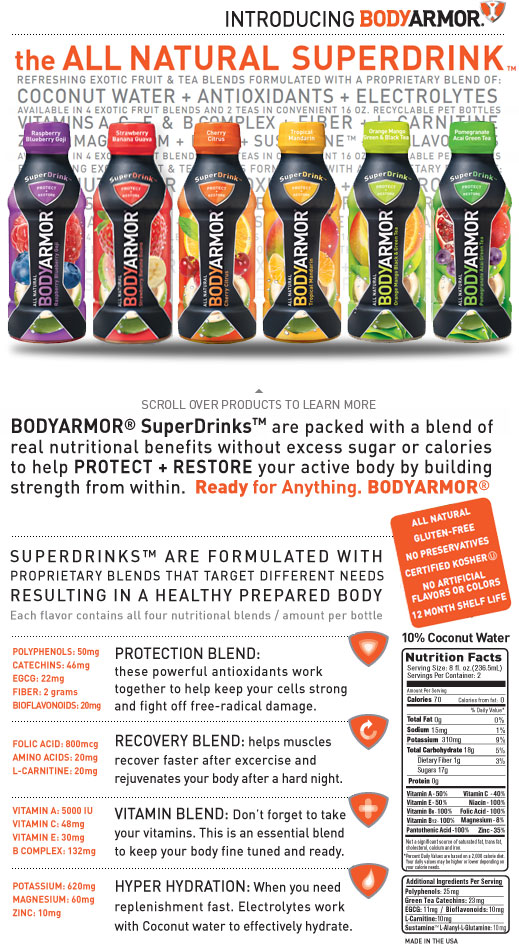
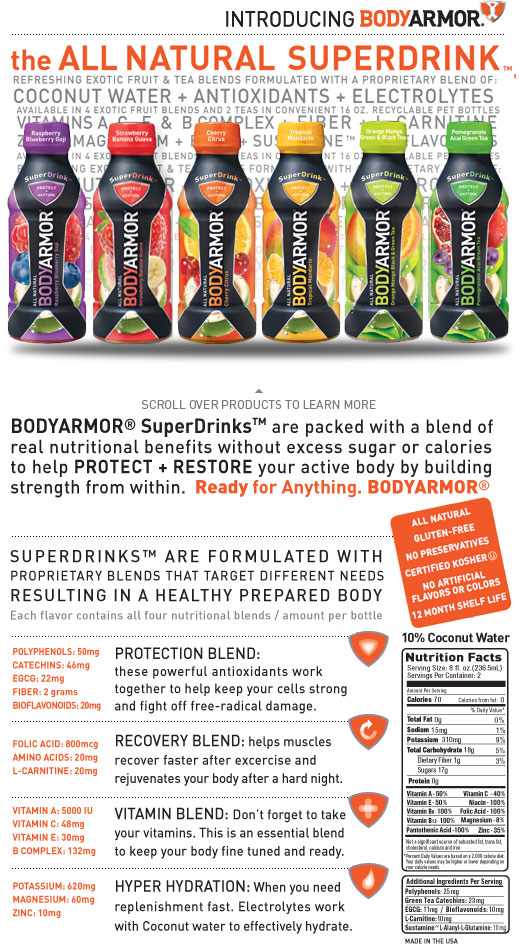
Minor changes to make it look better as a facebook page

Changed region(s): [[0.0, 0.0306, 1.0, 0.3675]]

diff --git a/public/stylesheets/application.css b/public/stylesheets/application.css
@@ -6,7 +6,7 @@ body {
 h1 {
   font-weight: bold;
   font-size: 10px;
-  margin: 0;
+  margin: 5px 0 -4px 0;
 }
 
 h2 {
@@ -84,11 +84,6 @@ select {
 #see_more {
   float: right;
   width: 30%;
-}
-
-.right a {
-  text-align: right;
-  display: inline;
 }
 
 .hide {
@@ -308,17 +303,21 @@ select {
 }
 
 .tropical {
-  left: 269px;
+  left: 268px;
 }
 
 .orange_mango {
-  left: 353px;
+  left: 351px;
 }
 
 .pomegranate {
-  left: 439px;
+  left: 436px;
 }
 
 #introduction_video {
   margin-top: 30px;
+}
+
+#fb-root {
+  clear: both;
 }
